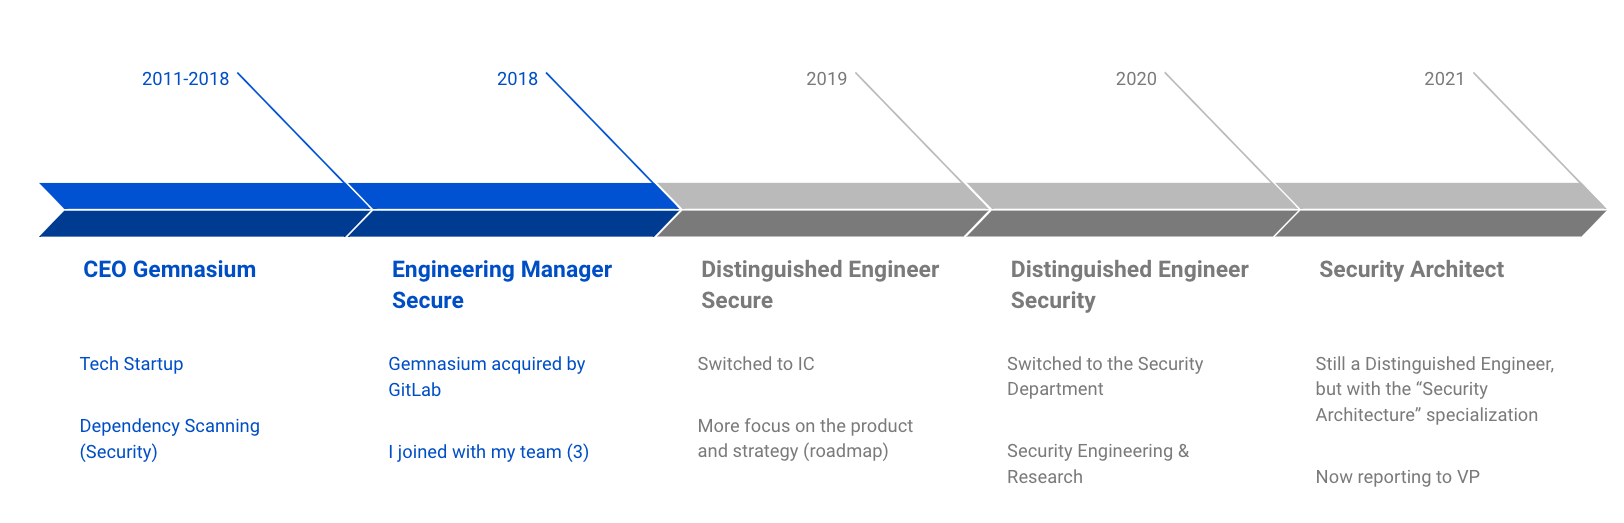
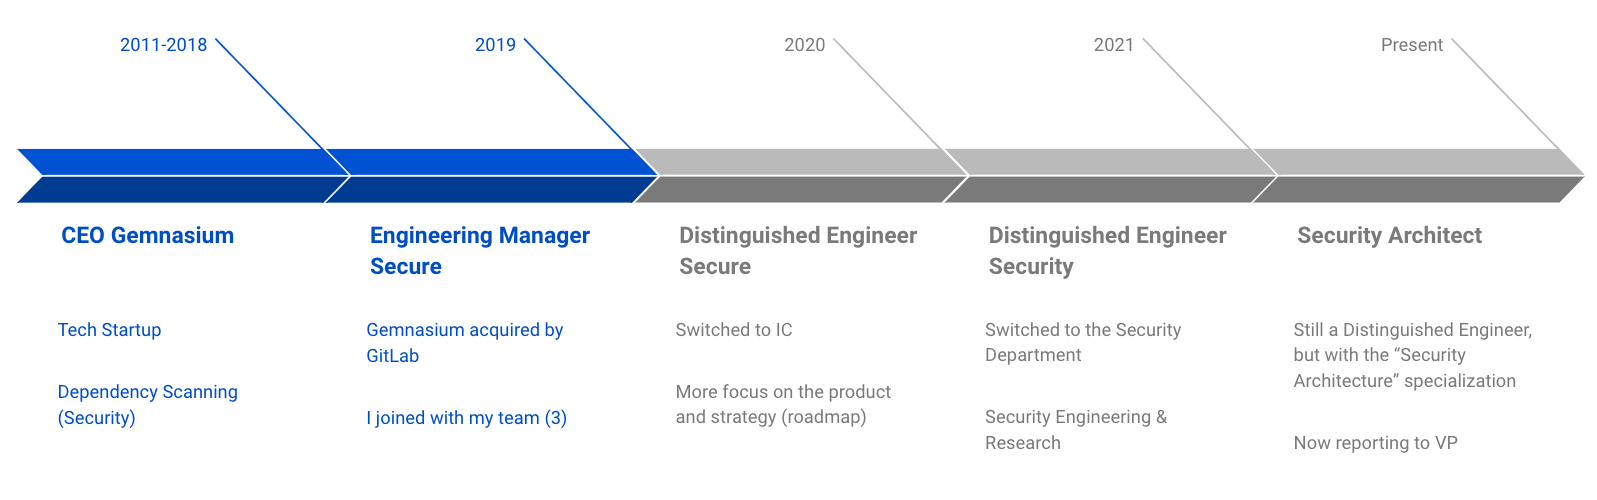
Update plafoucriere's readme

diff --git a/security/readmes/philippe-lafoucriere/index.html.md b/security/readmes/philippe-lafoucriere/index.html.md
@@ -14,16 +14,14 @@ job: "Security Architect"
 
 ### About me
 
-Hi! I'm currently a [Security
-Architect](/job-families/security/security-engineer/#security-architect) at
+Hi! I'm a [Security Architect](/job-families/security/security-engineer/#security-architect) at
 GitLab, which is a specialty on top of my [Security Distinguished
-Engineer](/job-families/security/security-engineer/#distinguished-security-engineer)
-role.
+Engineer](/job-families/security/security-engineer/#distinguished-security-engineer) role.
 
 I have an Engineering background, having graduated from the [Université de Technologie de
 Compiègne](https://www.utc.fr/en/) (France) with a Master's Degree in Computer Science.
-Nevertheless, my career almost involved an Entrepreneur aspect. This makes me a "Jack of all
-trades", and a "Master of none".
+Nevertheless, my career almost involved an Entrepreneur aspect. This makes me a Jack of all
+trades and a master of none.
 
 I have worked in the various industries, ranging from telecoms to online betting.
 
@@ -38,39 +36,68 @@ A few facts about me:
 
 ### Background story at GitLab
 
-I joined GitLab after the [acquisition of
+I joined GitLab with the [acquisition of
 Gemnasium](/press/releases/2018-01-30-gemnasium-acquisition.html) in 2018, when I become the first
-manager of the [Secure Stage](/direction/secure/). After designing and developing security products,
-I decided to switch to the other side of the mirror, and joined the [Security
+manager of the [Secure Stage](/direction/secure/). After having designed and developed security
+products, I decided to switch to the other side of the mirror, and joined the [Security
 Department](/handbook/security/) in 2020. 
 
 ![timeline](images/timeline.png)
 
+### Communicating with me
+
+I'm pretty informal, message me on Slack, send an email, or tag me on a thread, and I'll respond as
+soon as I can. I don't use TODOs in GitLab, preferring to use emails instead. This allows me to see
+updates on issues where I've been involved, without getting pinged explicitly.
+
+You can always book a slot in my agenda (during working hours) if you want to talk to me, no need to
+ask.
+
+My English is not perfect. The best way for me to improve is to correct me when I’m using wrong
+words or expressions.
+
+Also, you can tell I’m tired when my English is worse than usual! 
+
+## Working at GitLab
+
+I live by our [values](/handbook/values/) and embrace every one of them as much as I can. By
+default, I will go async via an issue or a merge request. I create a lot of issues, but they not all
+translate into an action item. I use issues as a placeholder for discussions too. Sometimes, it's
+to document why I or we think it's not a good idea to do something. We can re-evaluate the topic
+long after, and still get the context which might have changed in the meantime. 
+
+I love merge requests too, and consider them as the new workspace. They invite everyone to contribute, 
+keep track of context and changes, let us loop in whoever is needed to review or approve, and least
+but not least have a great flexibility for approval rules.
+
+I love UX and by extension simplicity, which is something I will always strive for. Complexity is
+growing exponentially, so I tend to push back on ideas that can be simplified. 
+
 ### Typical workday
 
-I wake up at 6 am, train until 8 am, breakfast until 8:30 am. I usually don’t work before this time,
-but always check my emails and slack messages when I wake up (old CEO habit).
+I wake up at 6 a.m., exercise until 8 a.m., breakfast until 8:30 a.m. I usually don’t work before
+this time, but always check my emails and slack messages when I wake up (old CEO habit).
 
-I take a 1-hour break for lunch, usually between 11:30-12:30.
+I take a 1-hour break for lunch, usually between 11:30 a.m - 12:30 p.m.
 
 I end the day around 6pm to cook dinner for the family. 
 
 I get back to the computer between 7 and 8pm. After that, Slack and emails are still in “monitor
 mode”, but it’s usually family time.
 
-### Communicating with me
+### Projects
 
-I'm pretty informal, message me on Slack, send an email, or tag me on a thread, and I'll respond as
-soon as I can.  
+I maintain the [GitLab Inventory
+Builder](https://gitlab.com/gitlab-com/gl-security/engineering-and-research/gib) as well as our
+[internal inventory](https://gitlab.com/gitlab-com/gl-security/engineering-and-research/inventory)
+(private project).
 
-I tend to ignore LinkedIn invitations to connect if I haven't talked at least one to the person,
-even if that person is a GitLab team member.
+### Office Hours
 
-My English is not perfect. The best way for me to improve is to correct me when I’m using the wrong
-word or expression.
-
-Also, you can tell I’m tired when my English is worse than usual! 
-
+As a Distinguished Engineer, I host Office Hours for the Security Department, but anyone else is
+free to join if you want to talk about security. These Office Hours usually happen on Mondays at
+9:30 AM PST (the event is stored in the "Security" shared calendar, available to all team members of
+the department). Reach out to me if you're not in this department and want to be invited.
 
 ### Roadmap and Vision
 
